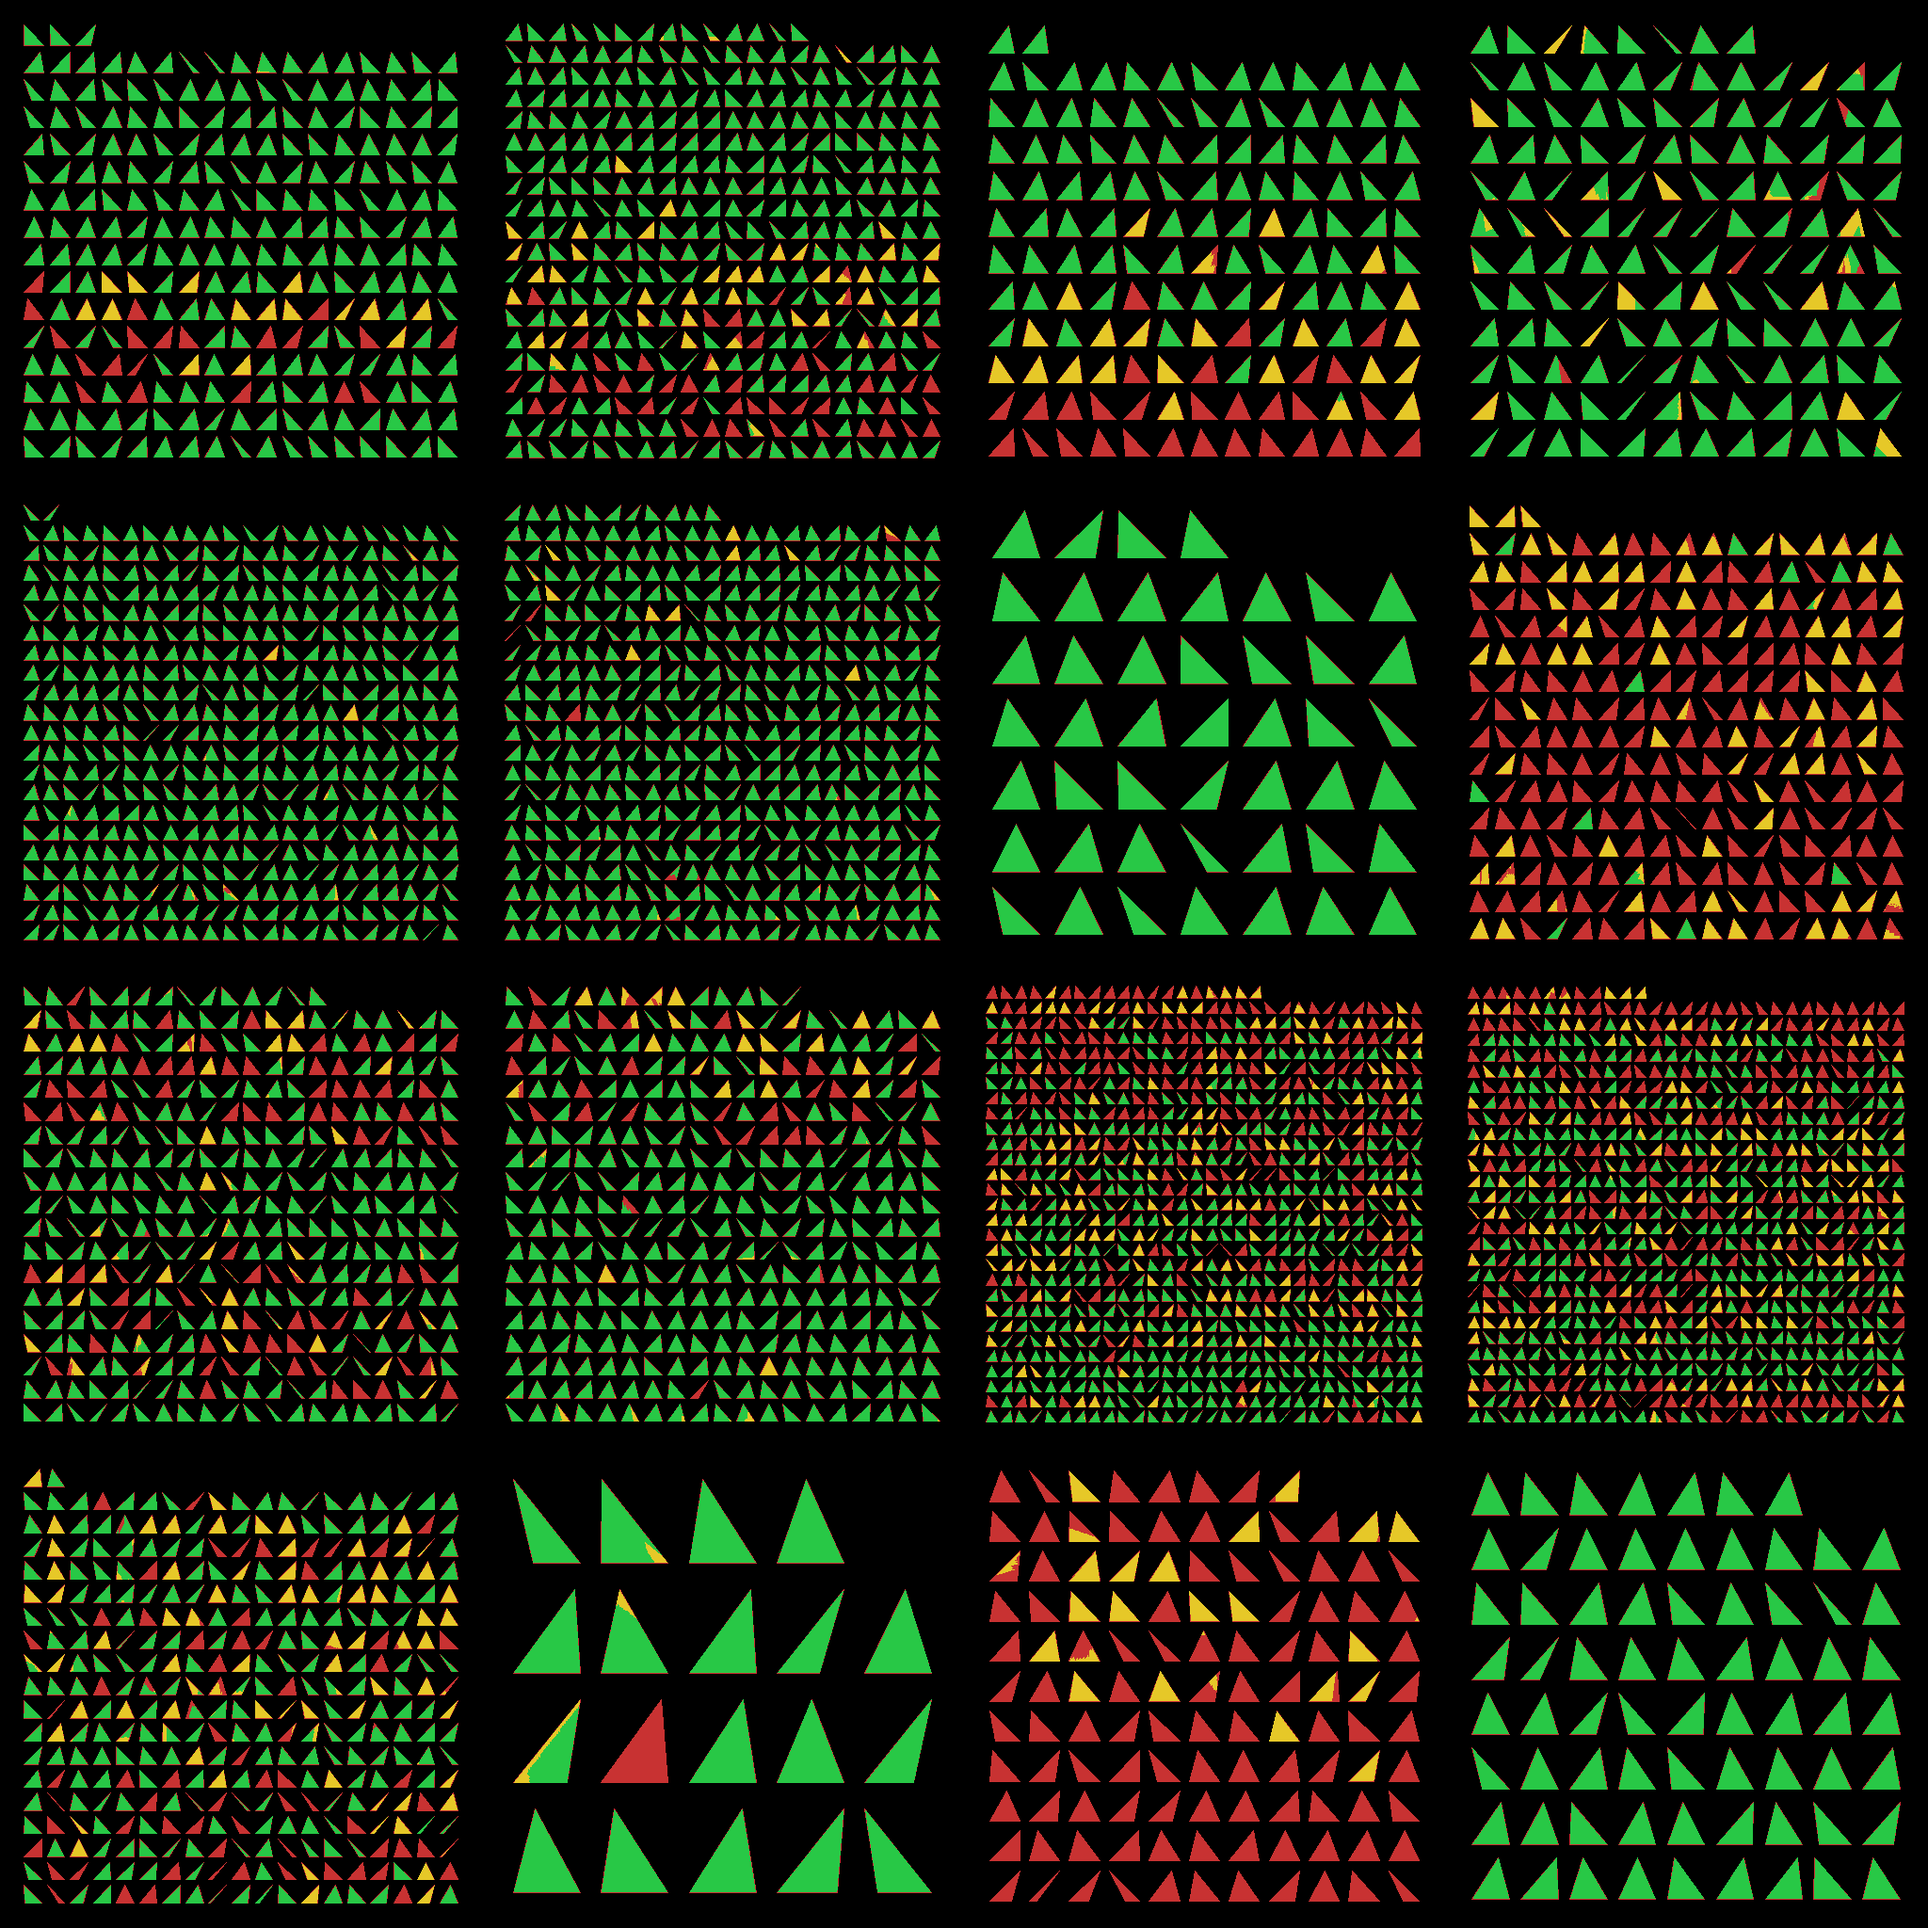
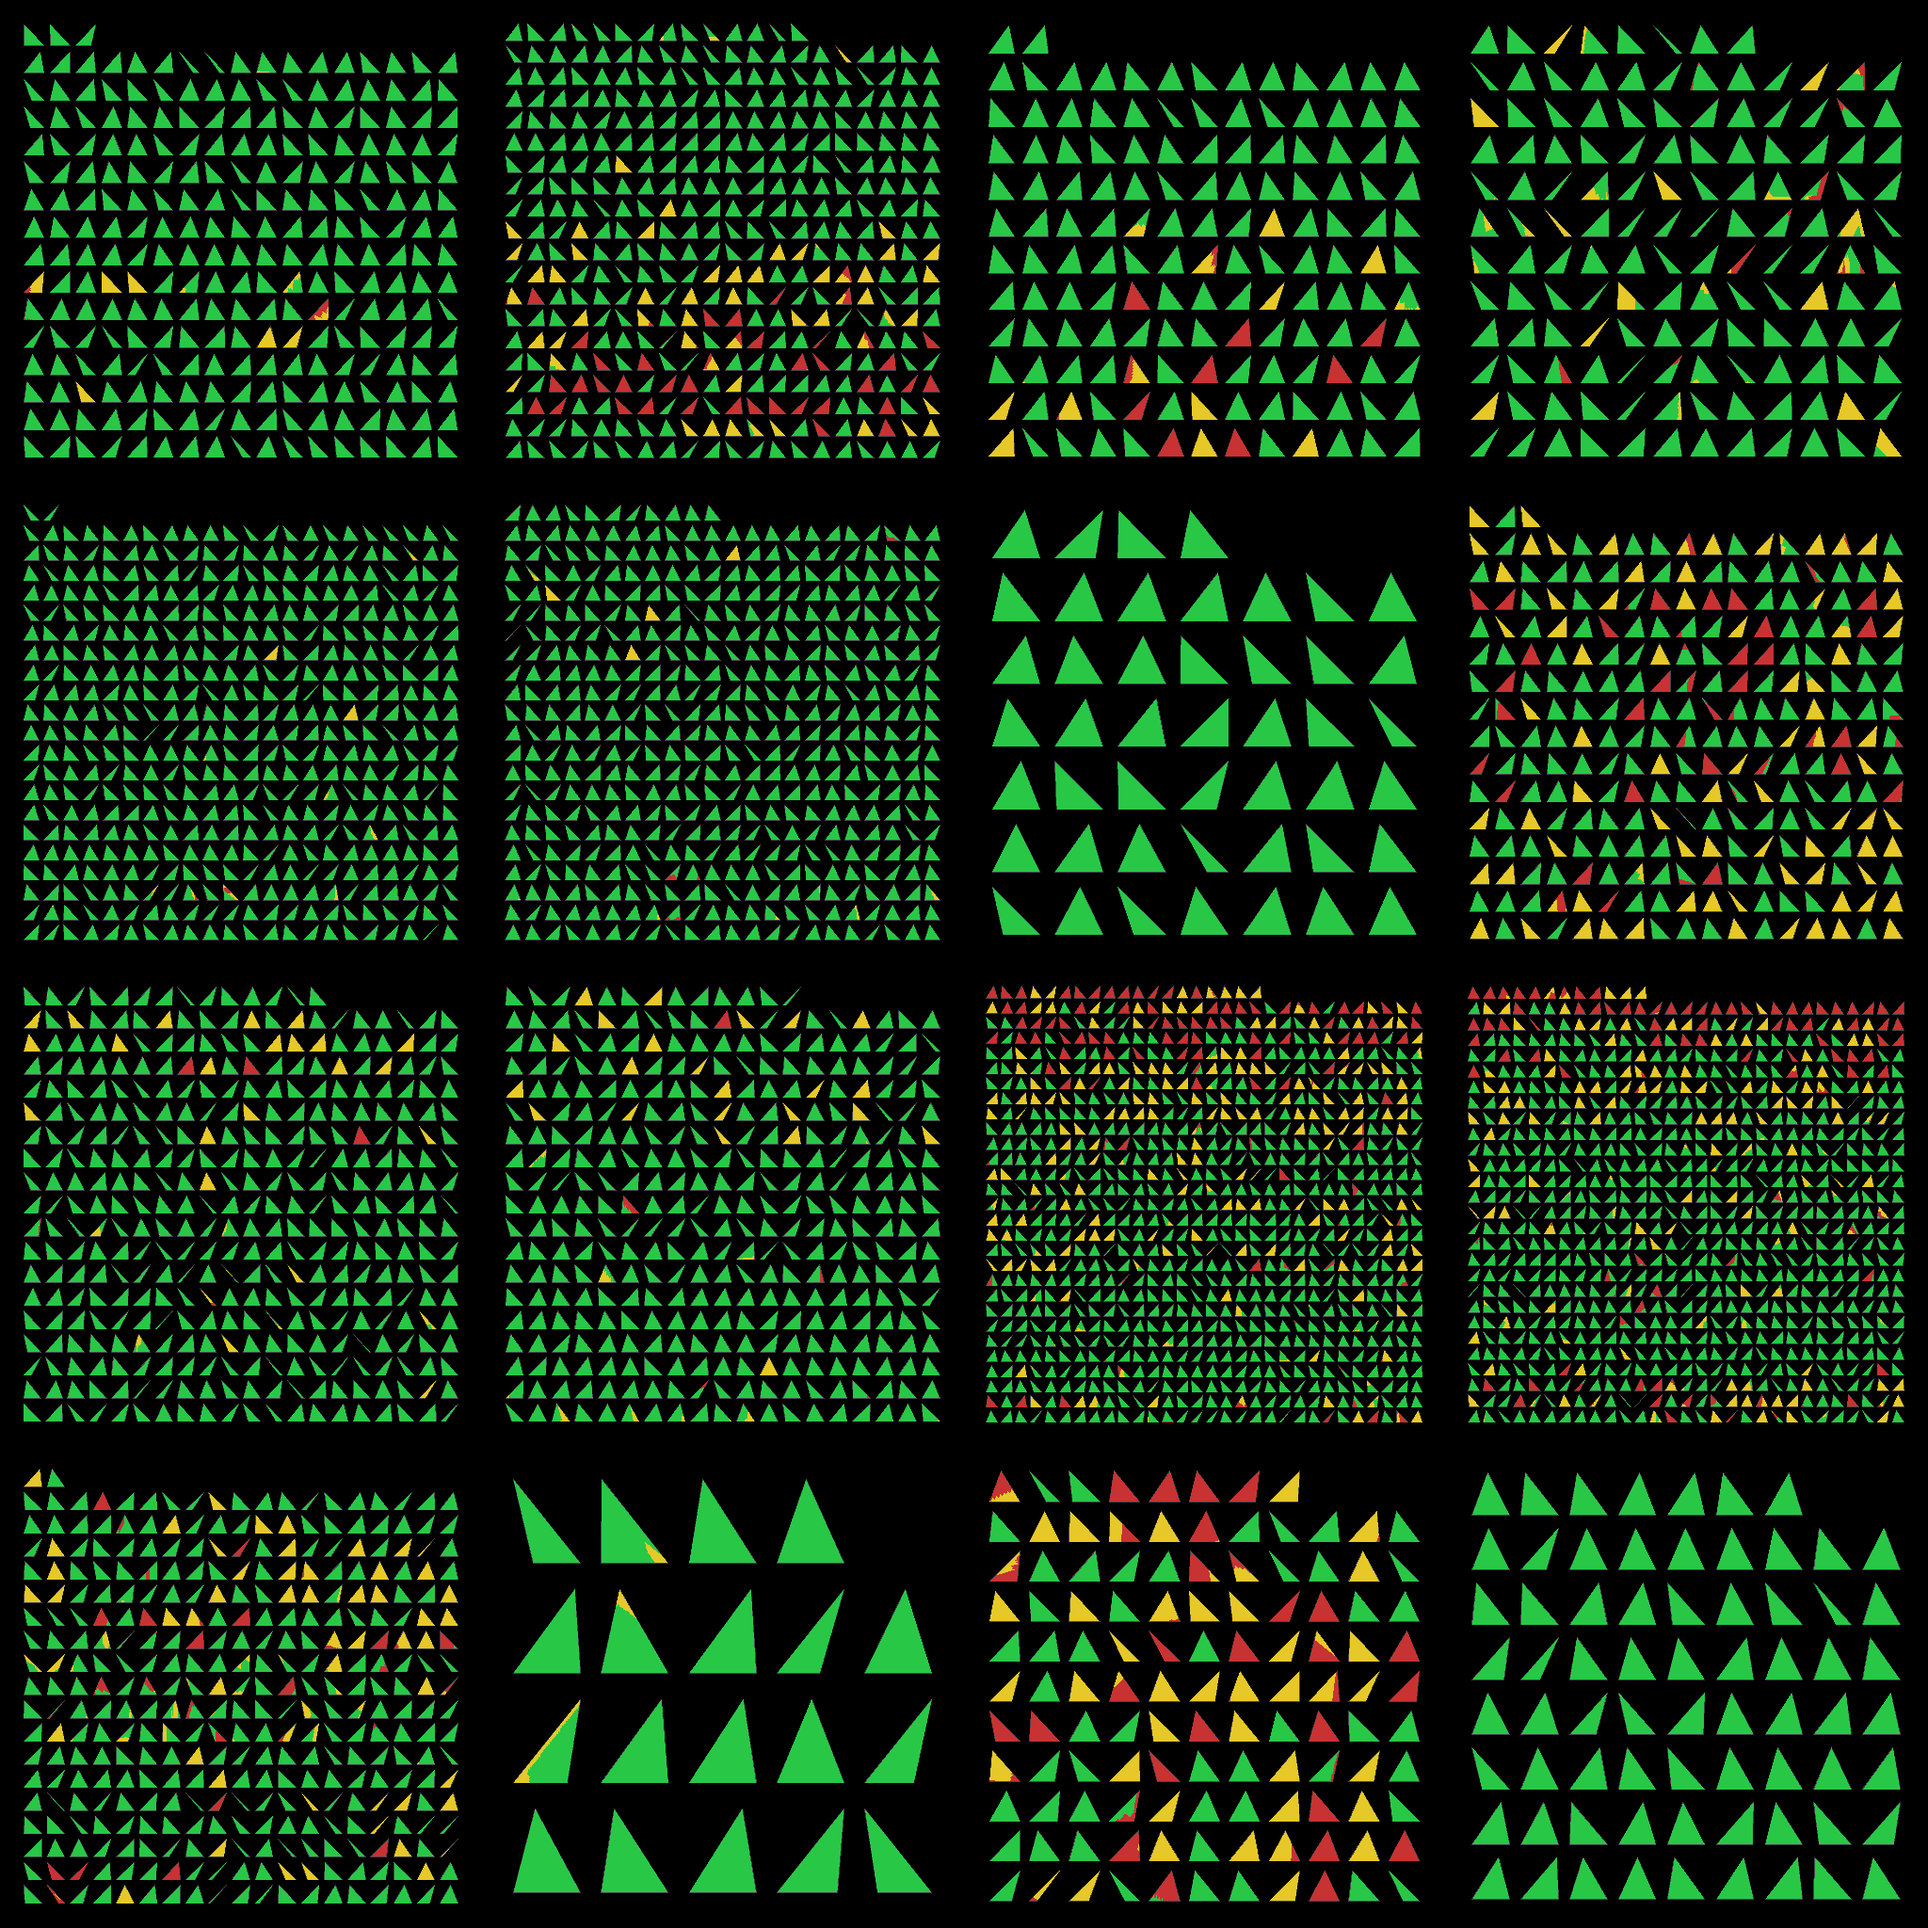
M2.2: promote V1 belly fuse to working fur (CANDIDATE_UNFROZEN)
用户确认：写入 fur_albedo/coverage；归档 baseline 46e56675；未冻、未开 M3。

diff --git a/docs/validation/m2_2_8dir/hold_diag/ADD_VIEW_MIN_PLAN.md b/docs/validation/m2_2_8dir/hold_diag/ADD_VIEW_MIN_PLAN.md
@@ -1,7 +1,7 @@
 # 加视角最小计划（半页）
 
-**时间**：2026-10-30 17:20:17 Asia/Shanghai  
-**状态**：**V1 SDXL seed2 PASS · 对照 fuse 候选已出 · baseline fur 未改未冻**  
+**时间**：2026-10-30 17:38:43 Asia/Shanghai  
+**状态**：**V1 候选已写入工作 fur（CANDIDATE_UNFROZEN）· 未冻 · 未开 M3**  
 **禁**：假绿填红、软降、拧 EDGE/graze、盲 regen、降硬门、冻、开 M3。
 
 ---
@@ -12,14 +12,24 @@
 |---|---|
 | 控图 yaw0 pitch−30 | ✅ |
 | SDXL ≤2 seed | ✅ seed1 FAIL / **seed2 PASS**（81011→20342080） |
-| 对照 fuse（bary） | ✅ 候选 GY **0.9493** / 红 **0.0507**；baseline `46e56675…` 已还原 |
-| 硬门 0.92 / 红 0.20 | ✅ 过（诚实岛） |
-| 战役 GY≥0.90 + 肚皮/背向红降 | ✅ |
-| 冻 fur / 开 M3 | **未做** — 等制作人审 |
+| 对照 fuse（bary） | ✅ 诚实岛 GY **0.9493** / 红 **0.0507** |
+| 硬门 0.92 / 红 0.20 | ✅ 过 |
+| 写入工作 fur + coverage | ✅ `3be77787ab0f…` / `1a8dbaf08c93…` |
+| 旧 baseline 归档 | ✅ `v1_belly_sdxl/archive_baseline_46e56675/`（`46e56675…`） |
+| 状态标 | **CANDIDATE_UNFROZEN**（`cats/miemie/identity_v1/CANDIDATE_UNFROZEN.md`） |
+| 冻 fur / 开 M3 | **未做** |
+
+## V2（下一步 · 仅控图+理论）
+
+| # | 建议姿态 | 目标吃红 | 本轮 |
+|---|---|---|---|
+| **V2** | yaw ≈ ±90° **偏内** 10–20°，pitch ≈ 10–20° | `C3/C4` 后腿内侧 + 部分前腿腋下 | **控图导出 + 理论 N·V**（**不开 SDXL**） |
+
+建议命名：`v2_leg_inner_L` / `v2_leg_inner_R`；边距≥16；基线=写入后 8+V1 合拢 coverage 诚实岛。
 
 ## 非目标
 
 - face_detail 不进本仗成功标准。
-- 不请用户冻结。
+- 不请用户冻结；不开 M3。
 
-详报：`hold_diag/v1_belly_sdxl/V1_BELLY_SDXL_REPORT.md`
+详报：`hold_diag/v1_belly_sdxl/V1_BELLY_SDXL_REPORT.md` · 状态：`CANDIDATE_UNFROZEN.md`

diff --git a/cats/miemie/identity_v1/CANDIDATE_UNFROZEN.md b/cats/miemie/identity_v1/CANDIDATE_UNFROZEN.md
@@ -1,0 +1,38 @@
+# 工作 fur 状态 · CANDIDATE_UNFROZEN
+
+**时间**：2026-10-30 17:38:43 Asia/Shanghai  
+**git tip（写入前）**：`18795fc`（`18795fcbb9f44a35bcdb2d5fde0354628c8a11a7`）
+
+## 状态
+
+| 项 | 值 |
+|---|---|
+| 工作 fur 状态 | **CANDIDATE_UNFROZEN**（未冻结） |
+| 冻结 | **否** |
+| 开 M3 | **否** |
+| 假绿填红 / 软降 / 盲拧 EDGE·graze | **未做** |
+
+## sha256
+
+| 文件 | sha256 |
+|---|---|
[4 lines of base64/hex data omitted]
+
+## 来源
+
+- 候选：`docs/validation/m2_2_8dir/hold_diag/v1_belly_sdxl/fur_albedo_v1_belly_candidate.png`
+- 候选 coverage：`docs/validation/m2_2_8dir/hold_diag/v1_belly_sdxl/coverage_v1_belly_candidate.png`
+- 对照 fuse 诚实岛（seed2）：GY **0.9493** / 红 **0.0507**（见 `V1_BELLY_SDXL_REPORT.md`）
+- 用户亲口确认（经 opus 转发）后写入
+
+## 归档
+
+`docs/validation/m2_2_8dir/hold_diag/v1_belly_sdxl/archive_baseline_46e56675/`
+
+## 下一步（未授权则不做）
+
+- 不冻、不开 M3
+- V2 腿内侧：仅控图 + 理论 N·V（不开 SDXL），另案

diff --git a/docs/validation/m2_2_8dir/hold_diag/v1_belly_sdxl/CANDIDATE_UNFROZEN.md b/docs/validation/m2_2_8dir/hold_diag/v1_belly_sdxl/CANDIDATE_UNFROZEN.md
@@ -1,0 +1,38 @@
+# 工作 fur 状态 · CANDIDATE_UNFROZEN
+
+**时间**：2026-10-30 17:38:43 Asia/Shanghai  
+**git tip（写入前）**：`18795fc`（`18795fcbb9f44a35bcdb2d5fde0354628c8a11a7`）
+
+## 状态
+
+| 项 | 值 |
+|---|---|
+| 工作 fur 状态 | **CANDIDATE_UNFROZEN**（未冻结） |
+| 冻结 | **否** |
+| 开 M3 | **否** |
+| 假绿填红 / 软降 / 盲拧 EDGE·graze | **未做** |
+
+## sha256
+
+| 文件 | sha256 |
+|---|---|
[4 lines of base64/hex data omitted]
+
+## 来源
+
+- 候选：`docs/validation/m2_2_8dir/hold_diag/v1_belly_sdxl/fur_albedo_v1_belly_candidate.png`
+- 候选 coverage：`docs/validation/m2_2_8dir/hold_diag/v1_belly_sdxl/coverage_v1_belly_candidate.png`
+- 对照 fuse 诚实岛（seed2）：GY **0.9493** / 红 **0.0507**（见 `V1_BELLY_SDXL_REPORT.md`）
+- 用户亲口确认（经 opus 转发）后写入
+
+## 归档
+
+`docs/validation/m2_2_8dir/hold_diag/v1_belly_sdxl/archive_baseline_46e56675/`
+
+## 下一步（未授权则不做）
+
+- 不冻、不开 M3
+- V2 腿内侧：仅控图 + 理论 N·V（不开 SDXL），另案

diff --git a/docs/validation/m2_2_8dir/PRODUCER_SUMMARY_ZH.md b/docs/validation/m2_2_8dir/PRODUCER_SUMMARY_ZH.md
@@ -1,3 +1,21 @@
+# M2.2 制作人摘要 · V1 写入工作 fur
+
+**时间**：2026-10-30 17:38:43 Asia/Shanghai  
+**状态**：**CANDIDATE_UNFROZEN**（工作 \`fur_albedo.png\` / \`coverage.png\` 已换为 V1 belly 候选）  
+**冻结 / 开 M3**：**否**
+
+| 项 | sha256 前缀 |
+|---|---|
+| 新工作 fur | `3be77787ab0f…` |
+| 新工作 coverage | `1a8dbaf08c93…` |
+| 旧 baseline（已归档） | `46e56675a577…` |
+
+归档：`hold_diag/v1_belly_sdxl/archive_baseline_46e56675/`  
+状态页：`cats/miemie/identity_v1/CANDIDATE_UNFROZEN.md`  
+下一步：V2 腿内侧控图+理论（不开 SDXL）。
+
+---
+
 # M2.2 制作人自审摘要（诚实版）
 
 **时间**：2026-10-30 13:51（Asia/Shanghai）· V1 腹底控图  

diff --git a/docs/validation/m2_2_8dir/hold_diag/v1_belly_sdxl/archive_baseline_46e56675/README.md b/docs/validation/m2_2_8dir/hold_diag/v1_belly_sdxl/archive_baseline_46e56675/README.md
@@ -1,0 +1,12 @@
+# 归档 · 旧 baseline fur（写入 V1 腹底候选前）
+
+**时间**：见 `ARCHIVED_AT.txt`（Asia/Shanghai）  
+**原因**：用户亲口确认，将 V1 belly fuse 候选写入正式工作 `fur_albedo.png` / `coverage.png`，标 **CANDIDATE_UNFROZEN**。
+
+| 文件 | sha256 |
+|---|---|
+| fur_albedo.png | 46e56675a577390d70724e803a37c39b8cc79e070a5434c336a042da502a08dd |
+| coverage.png | 347ca029da640ce55d8b6c9e937774780cb1fba49e5f9e4a0992a4fc1a28521f |
+
+**来源 tip**：约 `18795fc`（归档时 tip 见 ARCHIVED_AT.txt）  
+**状态**：仅归档；**未冻 / 未开 M3**。
